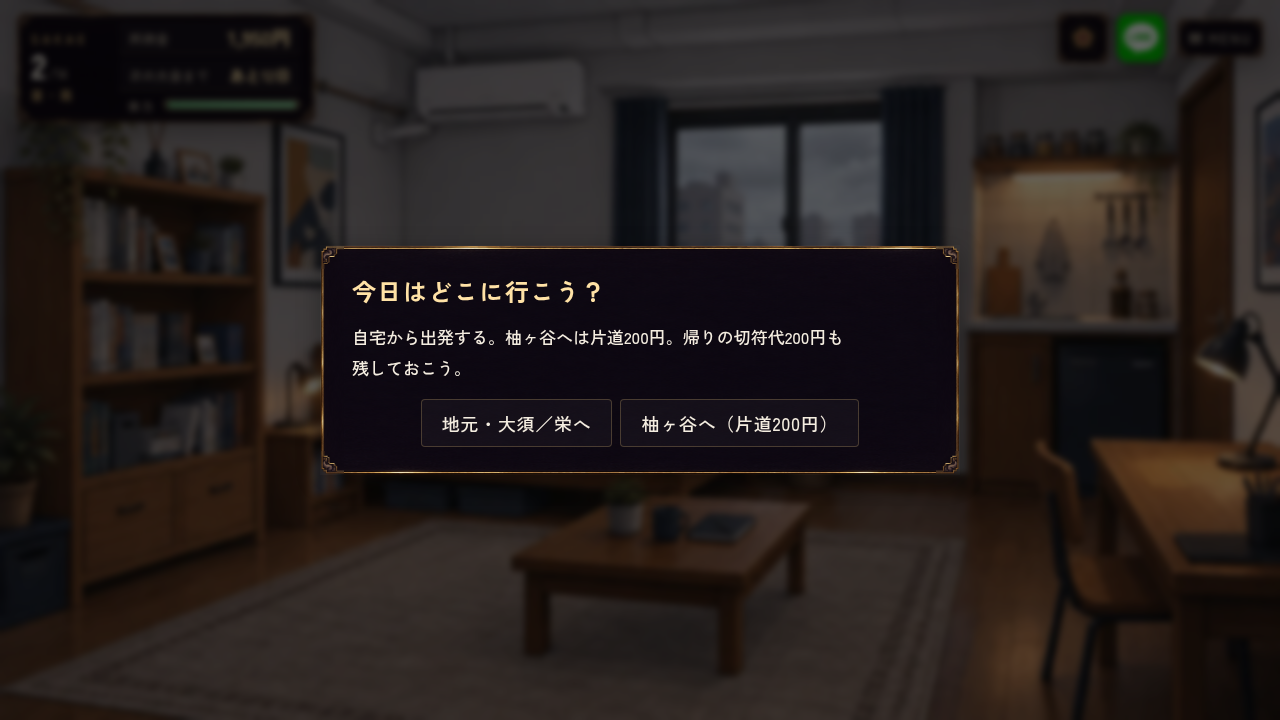
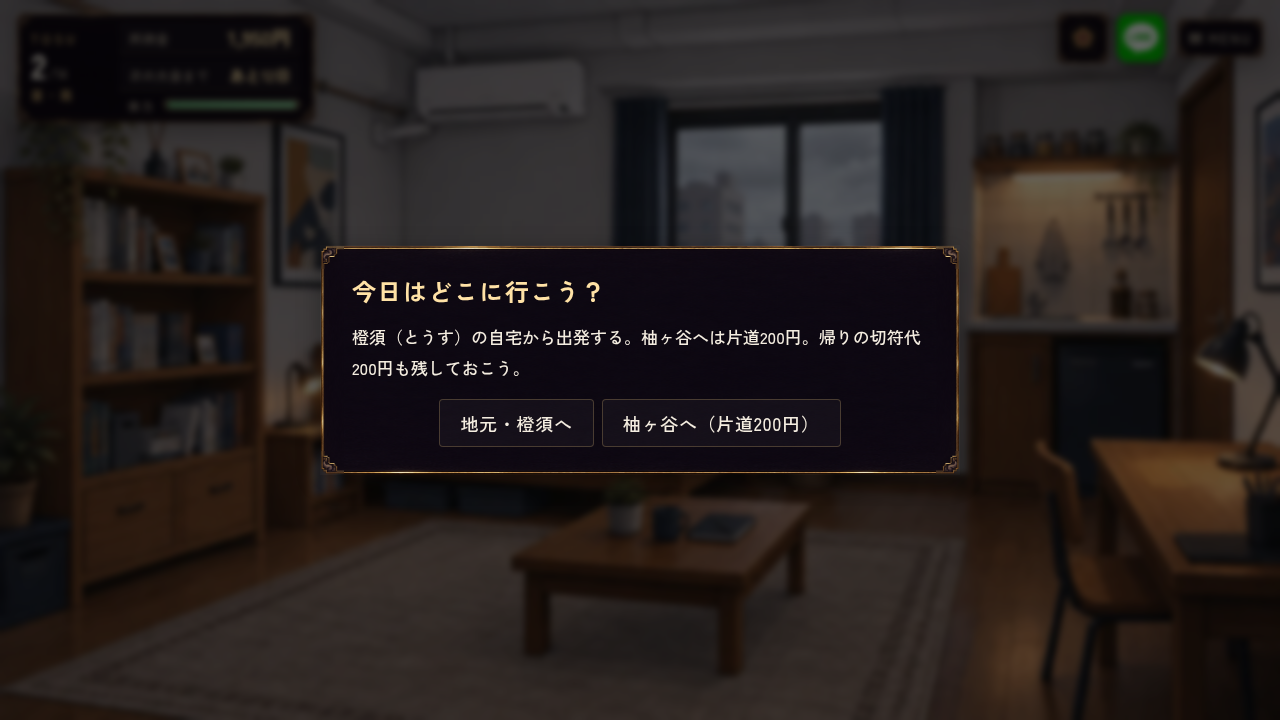
feat(world): name the hometown Tosu, 橙須 (#921)

Changed region(s): [[0.2812, 0.4583, 0.7188, 0.5194], [0.3438, 0.5806, 0.6562, 0.6111]]

diff --git a/remake/js/chapters/ch2-commute.js b/remake/js/chapters/ch2-commute.js
@@ -3,7 +3,7 @@ import { state, save } from "../core/state.js";
 import { bgUrl } from "../core/data.js";
 import { modal, setBg, showScreen } from "../core/ui.js";
 import { play } from "../vn/engine.js";
-import { CH2_CITY_NAME } from "../core/city-locations.js";
+import { CH2_CITY_NAME, HOME_CITY_NAME, HOME_CITY_READING } from "../core/city-locations.js";
 import { STATION_FARE, prepareStationTrip } from "../daily/station-travel.js";
 const regions = [{ id: "home" }, { id: "widehanga" }];
 
@@ -23,8 +23,8 @@ export async function chooseMorningCity() {
   if (state !== owner || state.day !== day) return;
   showScreen("home", el("main.ch2-morning-home"));
   const canGo = state.money >= STATION_FARE * 2;
-  const destination = await modal({ title: "今日はどこに行こう？", body: `自宅から出発する。${CH2_CITY_NAME}へは片道200円。帰りの切符代200円も残しておこう。${canGo ? "" : "今は往復分が足りないので、地元で過ごそう。"}`, options: [
-    { label: "地元・大須／栄へ", value: "home", test: "ch2-morning-home" },
+  const destination = await modal({ title: "今日はどこに行こう？", body: `${HOME_CITY_NAME}（${HOME_CITY_READING}）の自宅から出発する。${CH2_CITY_NAME}へは片道200円。帰りの切符代200円も残しておこう。${canGo ? "" : "今は往復分が足りないので、地元で過ごそう。"}`, options: [
+    { label: `地元・${HOME_CITY_NAME}へ`, value: "home", test: "ch2-morning-home" },
     ...canGo ? [{ label: `${CH2_CITY_NAME}へ（片道200円）`, value: "widehanga", test: "ch2-morning-city" }] : [],
   ] });
   if (state !== owner || state.day !== day) return;
@@ -45,7 +45,7 @@ export async function returnCityHome() {
   if (state.flags._ch2_region === "widehanga") {
     const trip = prepareStationTrip(state, regions, "home");
     if (!trip?.commit(state, { persist: save })) throw new Error("帰宅の切符代200円が不足しています");
-    await play({ dialogue_id: "__ch2_return_train", lines: [{ speaker: "", face: "", text: `${CH2_CITY_NAME}の駅で、地元へ戻る片道切符を200円で買った。` }, { speaker: "hajime", face: "normal", text: "今日もいろいろあったな。家に帰ろう" }] });
+    await play({ dialogue_id: "__ch2_return_train", lines: [{ speaker: "", face: "", text: `${CH2_CITY_NAME}の駅で、${HOME_CITY_NAME}へ戻る片道切符を200円で買った。` }, { speaker: "hajime", face: "normal", text: "今日もいろいろあったな。家に帰ろう" }] });
   }
   if (state === owner) await setBg(bgUrl("bg_home", "night"), { instant: true });
 }

diff --git a/remake/js/daily/hud.js b/remake/js/daily/hud.js
@@ -1,4 +1,4 @@
-import { CH2_CITY_EN } from "../core/city-locations.js";
+import { CH2_CITY_EN, CH2_CITY_NAME, HOME_CITY_EN, HOME_CITY_NAME } from "../core/city-locations.js";
 // 日常パートの常時表示（日付・時間帯・大会までの日数・所持金・体力・スマホ・ステータス）。
 // 見た目は旧版の墨×金を踏襲: 左上に DAY カード、右上に体力・ステータスの五角形・LIME・MENU。
 import { el, yen, sleep } from "../core/util.js";
@@ -79,7 +79,7 @@ export function initHud(h) {
   pendingRecovery = null;
   handlers = { ...handlers, ...h };
   dom = {
-    area: el("div.dc-area", { text: "SAKAE" }),
+    area: el("div.dc-area", { text: HOME_CITY_EN }),
     day: el("div.dc-day"),
     slot: el("div.dc-slot"),
     money: el("b"),
@@ -122,10 +122,10 @@ export function updateHud() {
   if (!dom || !state) return;
   const widehanga = state.chapter === 2 && state.flags._ch2_region === "widehanga";
   dom.area.dataset.region = widehanga ? "widehanga" : "sakae";
-  dom.area.setAttribute("aria-label", widehanga ? CH2_CITY_EN : "SAKAE");
+  dom.area.setAttribute("aria-label", widehanga ? CH2_CITY_EN : HOME_CITY_EN);
   dom.area.replaceChildren(
-    el("span.dc-area-full", { text: widehanga ? CH2_CITY_EN : "SAKAE" }),
-    el("span.dc-area-short", { text: widehanga ? "ワイド" : "SAKAE" }),
+    el("span.dc-area-full", { text: widehanga ? CH2_CITY_EN : HOME_CITY_EN }),
+    el("span.dc-area-short", { text: widehanga ? CH2_CITY_NAME : HOME_CITY_NAME }),
   );
   dom.day.replaceChildren(el("b", { text: String(chapterDay(state)) }), el("small", { text: `/${TOURNAMENT_DAY}` }));
   const night = state.slot >= 1;

diff --git a/remake/js/chapters/ch2-preparation.js b/remake/js/chapters/ch2-preparation.js
@@ -1,6 +1,6 @@
 import { normalizeCommuteState, chooseMorningCity, returnCityHome } from "./ch2-commute.js";
 import { spendableMoney } from "../core/travel-budget.js";
-import { CH2_CITY_NAME } from "../core/city-locations.js";
+import { CH2_CITY_NAME, HOME_CITY_NAME } from "../core/city-locations.js";
 // 第2章の自由日。日常の消費・練習・保存・LIME・就寝は既存calendarを使う。
 import { DB, bgUrl } from "../core/data.js";
 import { state, save, markMet, timeOfDay } from "../core/state.js";
@@ -129,7 +129,7 @@ export async function runChapterTwoPreparation() {
     mapOptions: () => ({
       regionId: state.flags._ch2_region,
       regions: [
-        { id: "home", label: "地元・大須／栄", background: () => bgUrl(`bg_osu_map_${timeOfDay()}`), spots: () => allSpots().filter(spot => spot.kind !== "trpg") },
+        { id: "home", label: `地元・${HOME_CITY_NAME}`, background: () => bgUrl(`bg_osu_map_${timeOfDay()}`), spots: () => allSpots().filter(spot => spot.kind !== "trpg") },
         { id: "widehanga", label: `隣町・${CH2_CITY_NAME}`, background: () => MAP[timeOfDay()], spots: () => [...PREPARATION_SPOTS, CITY_SHOP, ...knownCityOutings(state).filter(spot => spot.kind !== "trpg"), trpgSpot()].filter(Boolean) },
       ],
       onRegionChange: id => { state.flags._ch2_region = id; save(); },

diff --git a/remake/js/core/city-locations.js b/remake/js/core/city-locations.js
@@ -1,4 +1,7 @@
-// 地名の表示だけを改名する。既存の保存ID widehanga と過去の素材パスは維持する。
+// 街名の表示。既存の保存ID home / widehanga と過去の素材パスは維持する。
+export const HOME_CITY_NAME = "橙須";
+export const HOME_CITY_READING = "とうす";
+export const HOME_CITY_EN = "TOSU";
 export const CH2_CITY_NAME = "柚ヶ谷";
 export const CH2_CITY_EN = "YUZUGAYA";
 export const CITY_BACKGROUNDS = Object.fromEntries(["trpg", "aquarium", "sento", "shop", "kumicho", "c_station"]

diff --git a/brand/story_and_structure.md b/brand/story_and_structure.md
@@ -4,6 +4,10 @@
 
 台詞・呼称は `data/characters.json` と `brand/character_profiles.md`、ゲームの規則は `docs/gameplay_agent_reference.md`。正式ヒロイン名簿、後半台本の再生順、デート・修羅場・エピローグの対応は [`data/story_routes.json`](../data/story_routes.json) に一元化する。改稿前の台本は `data/dialogue/_legacy/` に隔離し、正史の根拠にしない。未採用の別PRの章題案や制作中の画像タイトルを混ぜない。
 
+## 舞台となる街
+
+地元は**橙須（とうす）**。愛知県の大須を元に、柑橘の「橙」と読みを組み合わせた架空の街名。tonariを中心に商店街や個人店が並ぶ。第2章で通う都会の隣町は**柚ヶ谷（ゆずがや）**。朝は橙須の自宅から行き先を選び、柚ヶ谷へ出かけた夜も橙須の自宅へ帰る。保存IDの `home` / `widehanga` や、背景画像の過去のファイル名は変更しない。
+
 ## 全ルートを通る主題
 
 はじめは「自分だけの強みがなければ、認めてもらえない」と思い詰める。借りた手つき、店での口調、誰かといる時の自分を削って、独立した核を探そうとする。その苦しみをほどくのは、新たな才能の発見ではなく、働く・食べる・休む・謝る・誰かに作るという生活である。
